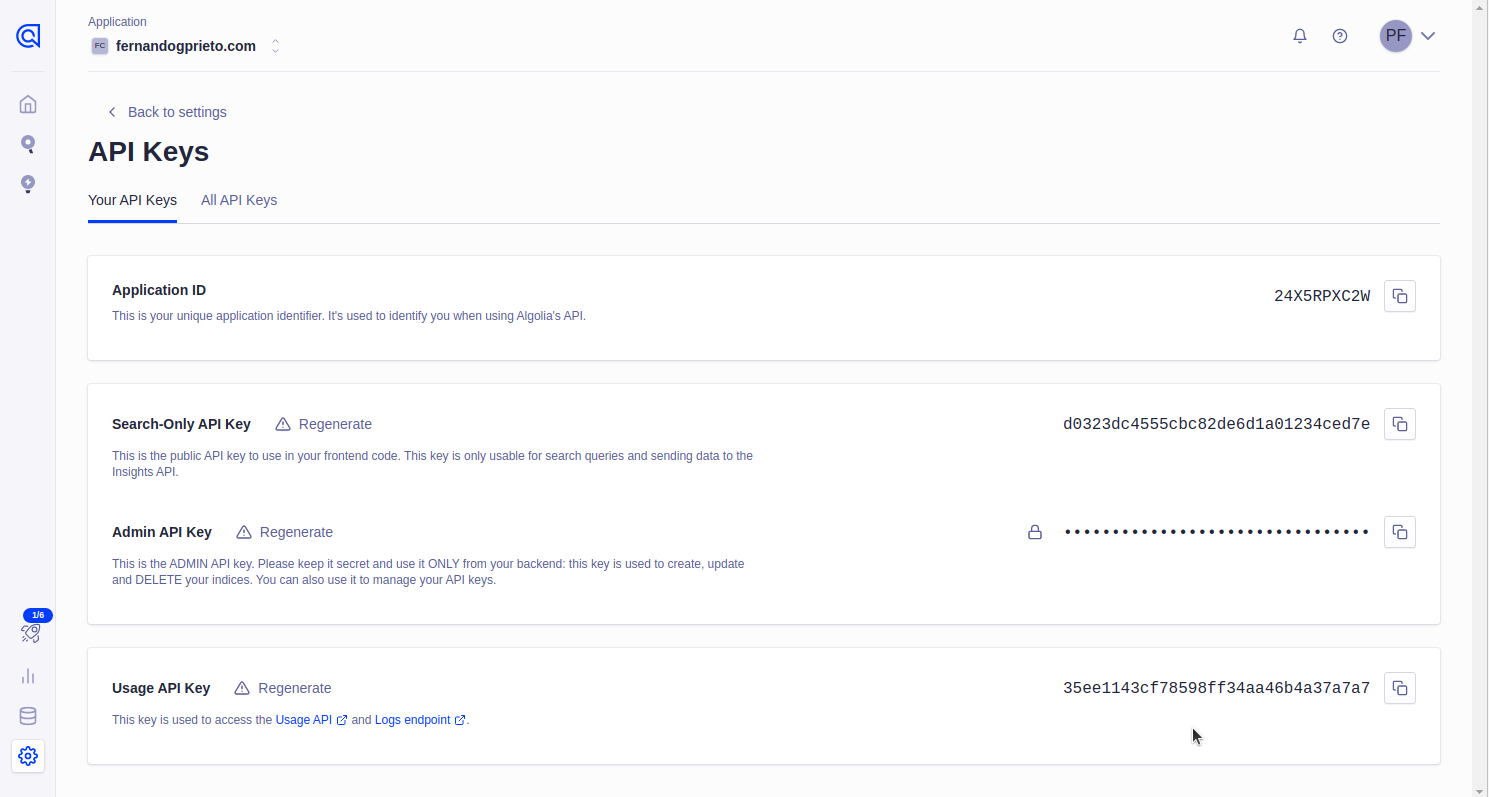
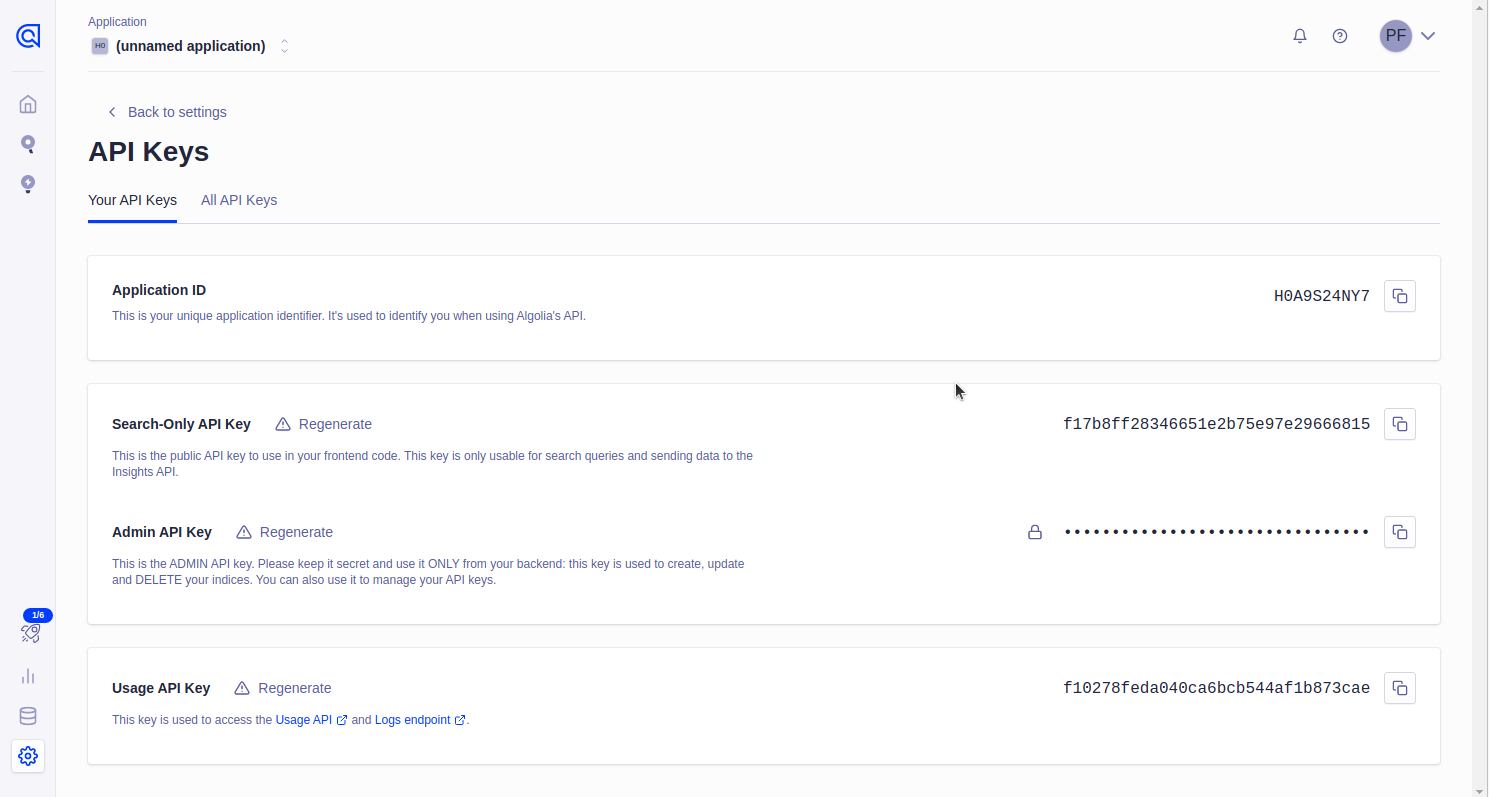
update project docusuaurus-search

diff --git a/docusaurus.config.js b/docusaurus.config.js
@@ -132,11 +132,12 @@ const config = {
         ],
         copyright: `Copyright © ${new Date().getFullYear()} Fernando Prieto Website. Built with Docusaurus.`,
       },
-      /*algolia: {
+      algolia: {
         appId:'24X5RPXC2W',
-        apiKey: 'd0323dc4555cbc82de6d1a01234ced7e',
+        apiKey: '458b0ffd46d1ba2e6521bb9c68fa3a9a',
         indexName: 'fgp_website',
-      }, */
+        contextualSearch: true,
+      },
       prism: {
         theme: require('prism-react-renderer/themes/github'),
         darkCodeTheme: require('prism-react-renderer/themes/dracula')
@@ -170,7 +171,6 @@ const config = {
         disableInDev: false,
         },
       ],
-      require.resolve("@cmfcmf/docusaurus-search-local"),
     ],
 };
 

diff --git a/docs/projects/docusaurus/search.md b/docs/projects/docusaurus/search.md
@@ -1,6 +1,7 @@
 ---
 id: docusaurus-search
 slug: /docusaurus-search
+title: Search
 ---
 
 > [Search | Docusaurus](https://docusaurus.io/docs/search) 
@@ -13,9 +14,10 @@ There are a few options you can use to add search to your website. In this proje
 
 - First you need to create an [Algolia account](https://www.algolia.com/)
 - Then create an index in indices:
-[comment]: image 
+  ![image](https://gitlab.com/fernandogprieto/fgp-website/-/raw/main/static/img/blog/indices.png)
 - Get the Application ID and API Key in API Keys:
-- Put your API-ID and API-LEY Search only in you `docusaurus.config.js`:
+  ![image](https://gitlab.com/fernandogprieto/fgp-website/-/raw/main/static/img/blog/apikeys.png)
+- Put your API-ID and **Search-only-API-KEY** in you `docusaurus.config.js`:
 ```js
 themeConfig: `
     algolia: {
@@ -25,4 +27,3 @@ themeConfig: `
     },
 }
 ```
-
